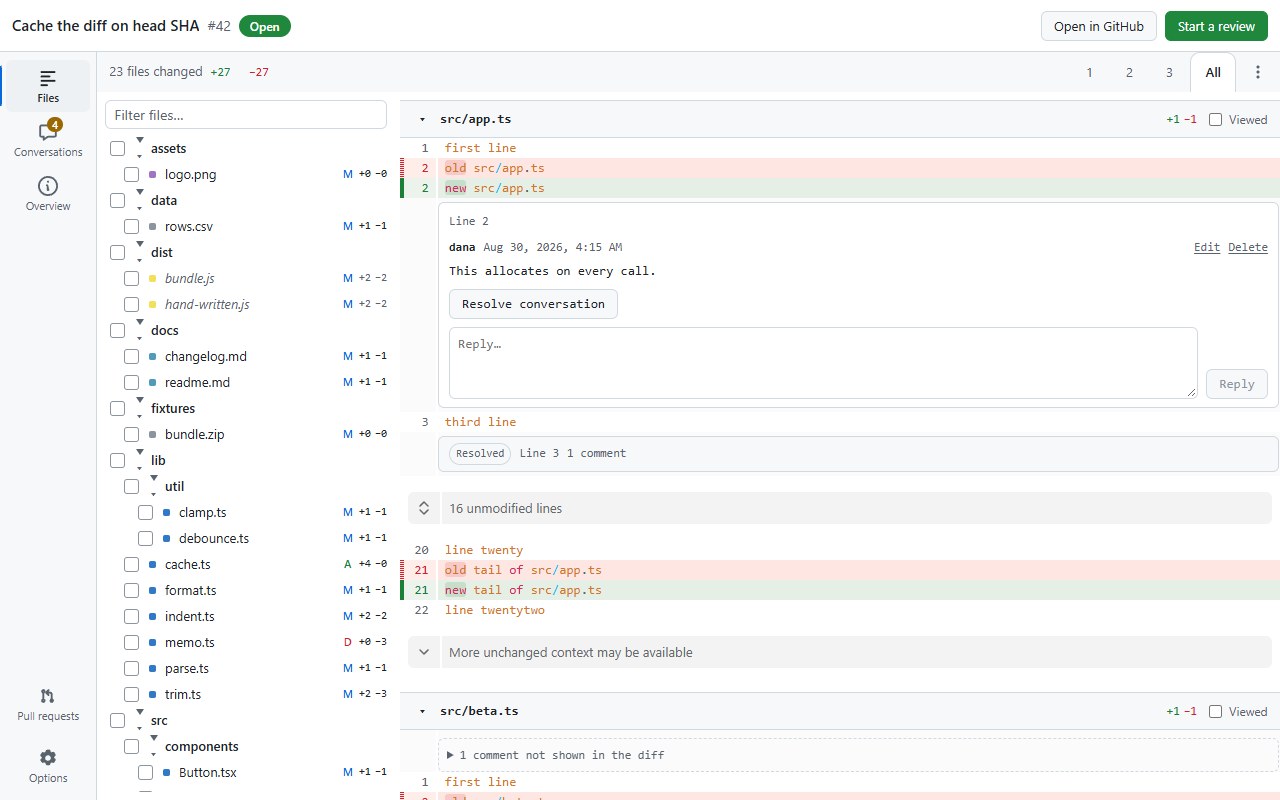
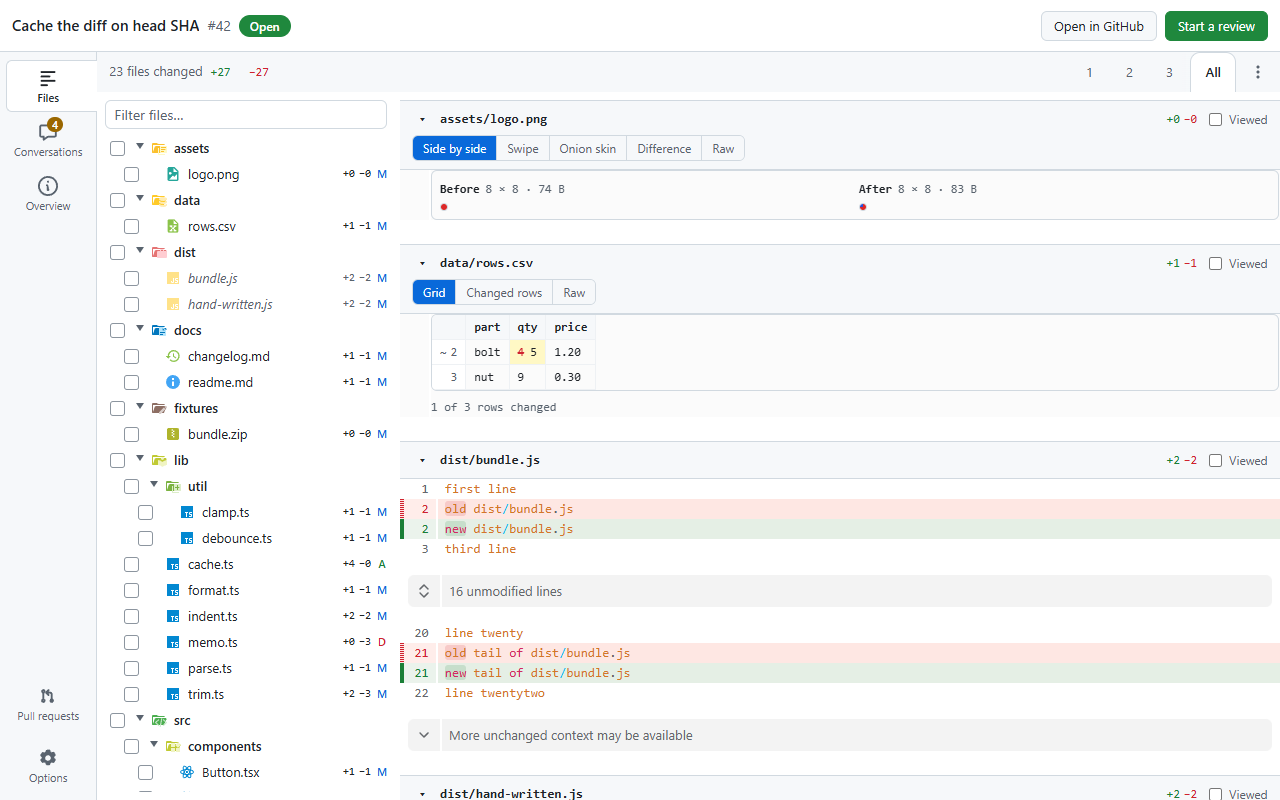
chore(store): say what the extension does now, and show it
The listing was written before the dashboard, the tree filter,
file-level comments, commenting on rendered Markdown and the archive
card. The copy now covers them, and the summary leads with the list of
pull requests waiting on you rather than with keyboard navigation.

Two shots had drifted rather than aged:

- The lead screenshot opened wherever the column opens, which stopped
  being a code diff when the column and the tree started sharing one
  order. It reached the tree first now, so it lands on a file with a
  comment anchored in it, which is what the copy beside it promises.
- The walkthrough recording took the first diffs-container on the page
  and pressed `c` on it, so it opened a composer for a different file
  and the recording failed outright. review.spec.ts was fixed for the
  same reason when the order changed; this file was missed.

Version to 1.0.3. Deliberately by hand rather than `npm version` —
that tags, and pushing the tag starts the release workflow.

diff --git a/e2e/store.shot.ts b/e2e/store.shot.ts
@@ -11,9 +11,13 @@
  * Run with `npm run screenshots`.
  */
 
+import type { Page } from '@playwright/test';
 import { test } from '@playwright/test';
 import { mkdirSync } from 'node:fs';
 import { MARKDOWN_FILE } from './fixture';
+
+/** The one file with a comment anchored inside a rendered hunk. */
+const THREADED_FILE = 'src/app.ts';
 import { PR, expect, reviewUrl, test as extensionTest } from './extension';
 
 const OUT = 'store/screenshots';
@@ -24,15 +28,40 @@ mkdirSync(OUT, { recursive: true });
 
 test.use({ viewport: VIEWPORT });
 
+/**
+ * The lead screenshot, which is the one the store draws largest.
+ *
+ * Reached through the tree rather than taken where the page opens, and that is
+ * the whole of what this function does differently from a `goto`. The column
+ * and the tree share one order now, so the top of the column is
+ * `assets/logo.png` — an image comparison above a CSV grid, which is a fine
+ * thing to show third and a confusing thing to show first. `src/app.ts` is a
+ * code diff with a comment anchored in it, which is the loop the extension
+ * exists for and the one the listing copy promises.
+ *
+ * Shared by the light and dark shots so the pair is the same view twice, which
+ * is the only reading of "the same in dark mode" worth uploading.
+ */
+async function reviewOnAThread(page: Page): Promise<void> {
+  await expect(page.locator('.shell')).toBeVisible();
+  await expect(page.locator('[data-file-card]').first()).toBeVisible();
+
+  await page.locator(`[data-path="${THREADED_FILE}"]`).click();
+  await expect(page.locator(`[data-file-card="${THREADED_FILE}"]`)).toBeVisible();
+  // The thread itself, rather than the card that holds it: it is an annotation
+  // Pierre lays out inside the diff, so the card can be on screen a beat before
+  // the comment in it is.
+  await expect(page.locator('[data-thread="PRRT_anchored"]')).toBeVisible();
+  // The highlighter finishes a beat after the card mounts, and a
+  // half-highlighted diff is exactly the thing a listing should not show.
+  await page.waitForTimeout(1500);
+}
+
 extensionTest('01 the review page', async ({ context, extensionId, api }) => {
   const page = await context.newPage();
   await page.setViewportSize(VIEWPORT);
   await page.goto(reviewUrl(extensionId));
-  await expect(page.locator('.shell')).toBeVisible();
-  await expect(page.locator('[data-file-card]').first()).toBeVisible();
-  // The highlighter finishes a beat after the first card mounts, and a
-  // half-highlighted diff is exactly the thing a listing should not show.
-  await page.waitForTimeout(1500);
+  await reviewOnAThread(page);
 
   await page.screenshot({ path: `${OUT}/01-review.png` });
   void api;
@@ -43,9 +72,7 @@ extensionTest('02 the review page in dark mode', async ({ context, extensionId, 
   await page.setViewportSize(VIEWPORT);
   await page.emulateMedia({ colorScheme: 'dark' });
   await page.goto(reviewUrl(extensionId));
-  await expect(page.locator('.shell')).toBeVisible();
-  await expect(page.locator('[data-file-card]').first()).toBeVisible();
-  await page.waitForTimeout(1500);
+  await reviewOnAThread(page);
 
   await page.screenshot({ path: `${OUT}/02-review-dark.png` });
   void api;

diff --git a/e2e/tour.shot.ts b/e2e/tour.shot.ts
@@ -59,9 +59,17 @@ extensionTest('the tour', async ({ context, extensionId, api }) => {
 
   // Writing a comment, through the keyboard path the product is built around:
   // choose a line, press `c`.
+  //
+  // The card is named rather than taken as the first one on the page, and that
+  // is not fussiness. There is one `diffs-container` per card, so `.first()`
+  // means "the top of the column" — which was `src/app.ts` while the column
+  // drew GitHub's diff order and is whatever `fileOrder` puts first now that
+  // the column and the tree share one. `e2e/review.spec.ts` has the same note
+  // over the same helper; this file was the one that did not get it, and the
+  // recording failed on a composer that had opened for a different file.
   const gutter = page
     .locator('diffs-container')
-    .first()
+    .filter({ has: page.locator('[data-file-card="src/app.ts"]') })
     .locator('[data-column-number][data-line-type="change-addition"]')
     .first();
   await gutter.click();

diff --git a/store/LISTING.md b/store/LISTING.md
@@ -18,7 +18,7 @@ A Better Reviewer
 *(132 characters max — this is the line shown in search results)*
 
 ```
-A faster review interface for GitHub pull requests. Comments, replies, resolves, approvals, and full keyboard navigation.
+A faster review interface for GitHub pull requests, and a list of the ones actually waiting on you. Keyboard throughout.
 ```
 
 ## Category
@@ -38,9 +38,14 @@ Reviewing a pull request on GitHub means a lot of scrolling, a lot of clicking, 
 
 Open a pull request and a small card appears with "Start a Better Review". Click it and the whole review opens in a fast, purpose-built page. Don't want the card? Collapse it to a pill and it stays out of your way.
 
+FIRST, WHICH ONES ARE ACTUALLY YOURS
+
+There is also a list of the pull requests across the repositories you choose, sorted by what each one needs rather than by when it was touched: waiting on you, blocked on you, ready to merge, waiting on others, quiet, and drafts. Whose turn it is comes from what GitHub already said — a review request, a push since your last look, an unresolved conversation, an approval nobody has acted on — rather than from a rule you have to configure. Search it by title, including closed ones, and open any of them straight into the review page.
+
 WHAT IT DOES
 
 • Comments, with reply and resolve — and editing or deleting your own
+• Comments on a line, on a range of lines, or on the file as a whole
 • The full pending-review flow — queue comments, then submit them together
 • Approve and request changes
 • Status checks, including GitHub Actions runs and older commit statuses
@@ -49,6 +54,7 @@ WHAT IT DOES
 • Drafts that survive a failed post, so nothing you typed is lost
 • Multi-line comments and suggestion authoring
 • Noise filtering and diff search
+• A file tree you can filter as well as jump through, with an icon per file type
 • Expand unchanged context around a hunk
 • Scope the diff to one commit, a range of commits, or "changes since my last review"
 • A notice when new commits land on the branch while you are reading
@@ -60,11 +66,12 @@ MORE THAN LINE DIFFS
 
 Some files are not read as lines, so they are not shown as lines. Each of these sits behind a switch on the file's own card, with the plain diff always one press away.
 
-• Markdown rendered, with the changes marked inside the prose rather than beside it — and Mermaid diagrams drawn
+• Markdown rendered, with the changes marked inside the prose rather than beside it, Mermaid diagrams drawn, and a comment you can leave on the paragraph in front of you rather than on the line it came from
 • Images side by side, as an onion skin, under a swipe, or by difference
 • Jupyter notebooks by cell, or by their outputs
 • CSV and TSV as a table, with the changed rows on their own
 • JSON, JSONC, YAML and TOML compared by structure, so a reformat or a reordered key stops reading as a change
+• Zip archives read as a listing, so a rebuilt archive says which entries really changed rather than that the file differs
 
 READABLE, INCLUDING WHEN THE DEFAULT IS NOT
 
@@ -198,7 +205,13 @@ In `store/screenshots/`, all 1280×800, regenerated with `npm run screenshots`:
 | `05-rendered-markdown.png` | A Markdown file as a rendered diff, with a Mermaid diagram drawn |
 
 Upload at least one; the store allows up to five. `01` should be first, since it
-is the one shown largest.
+is the one shown largest — it is reached through the tree rather than taken
+where the page opens, so that it lands on a code diff with a comment in it
+rather than on whatever `fileOrder` happens to put at the top of the column.
+
+**The pull request dashboard is described above but not shown here.** Five is
+the store's ceiling and these five were kept; if one of them is ever dropped,
+that is the screenshot worth adding in its place.
 
 **Note:** these are captured against the test harness, so the diff content is
 fixture data rather than a real repository. The interface is exactly what ships.
